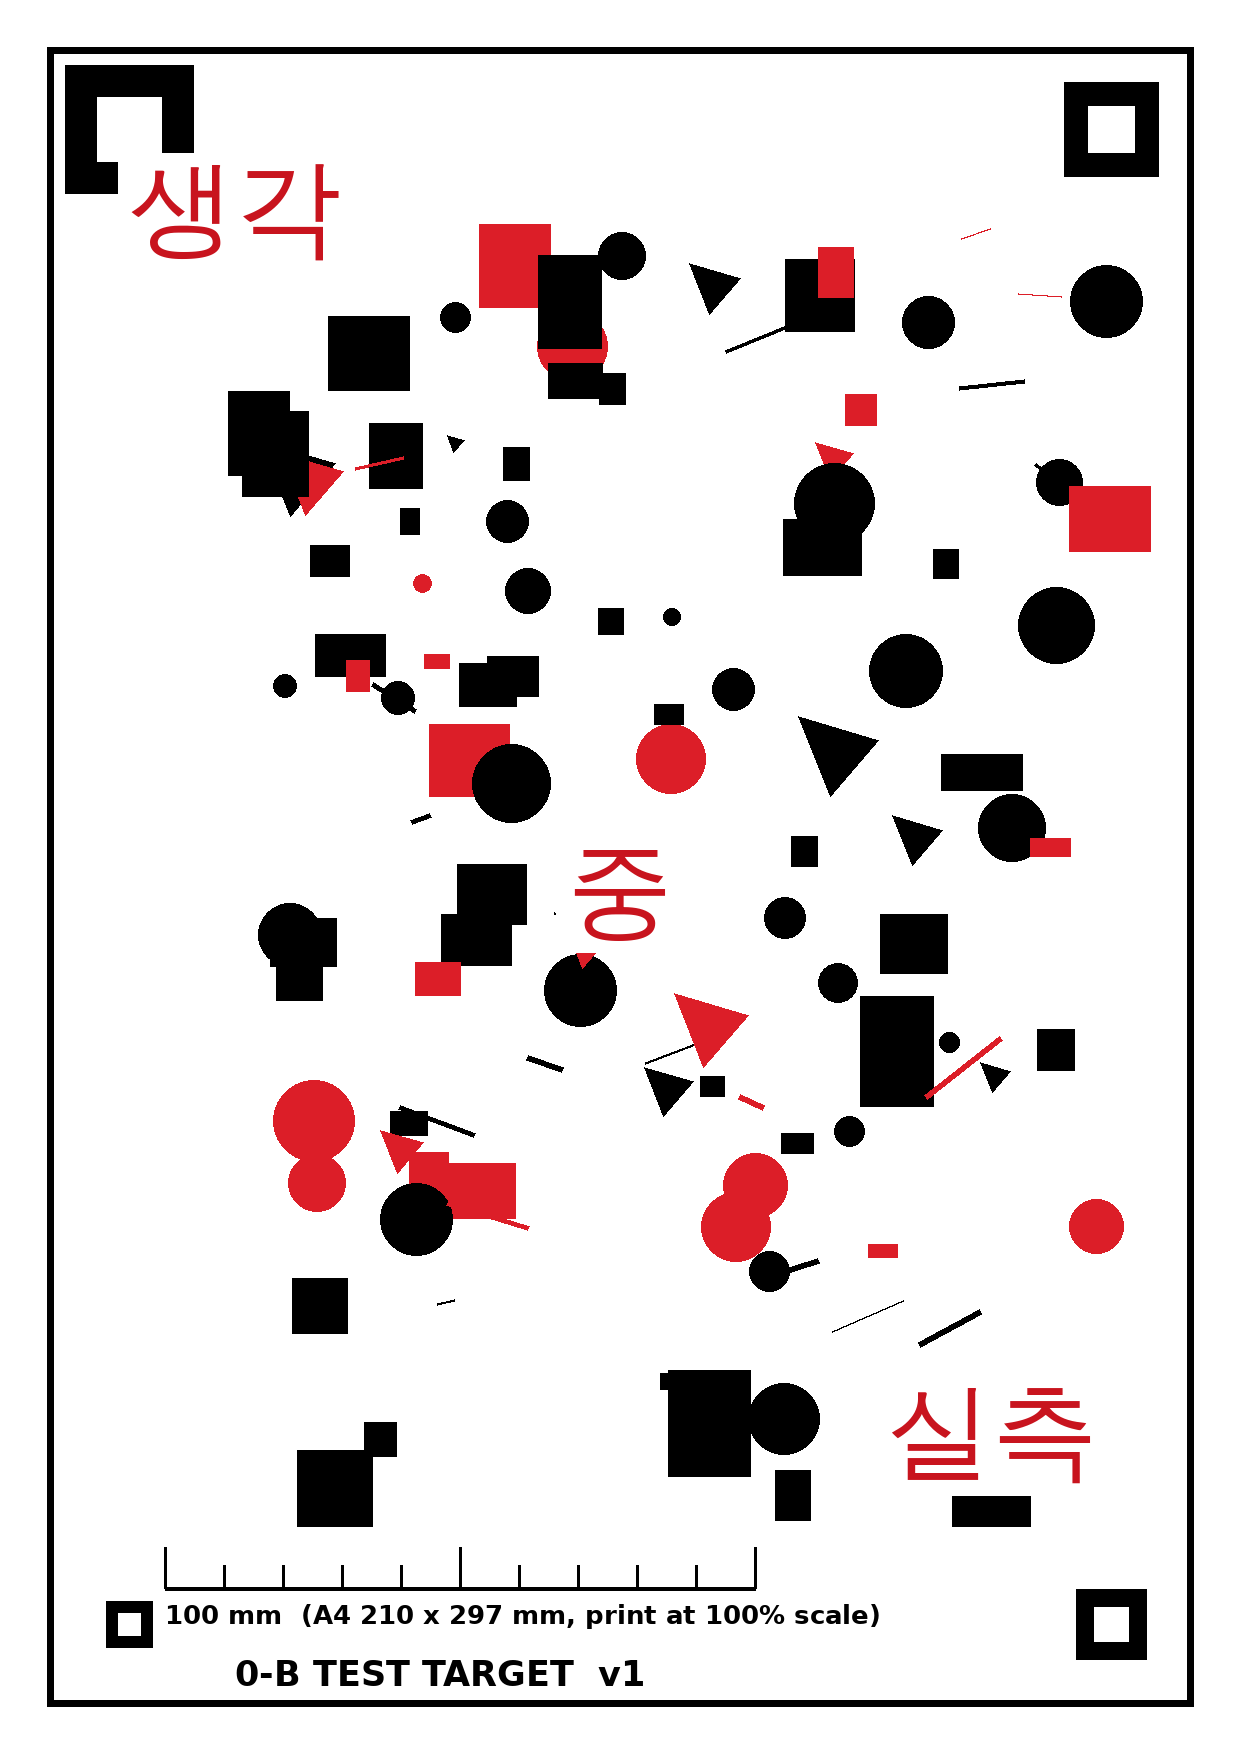
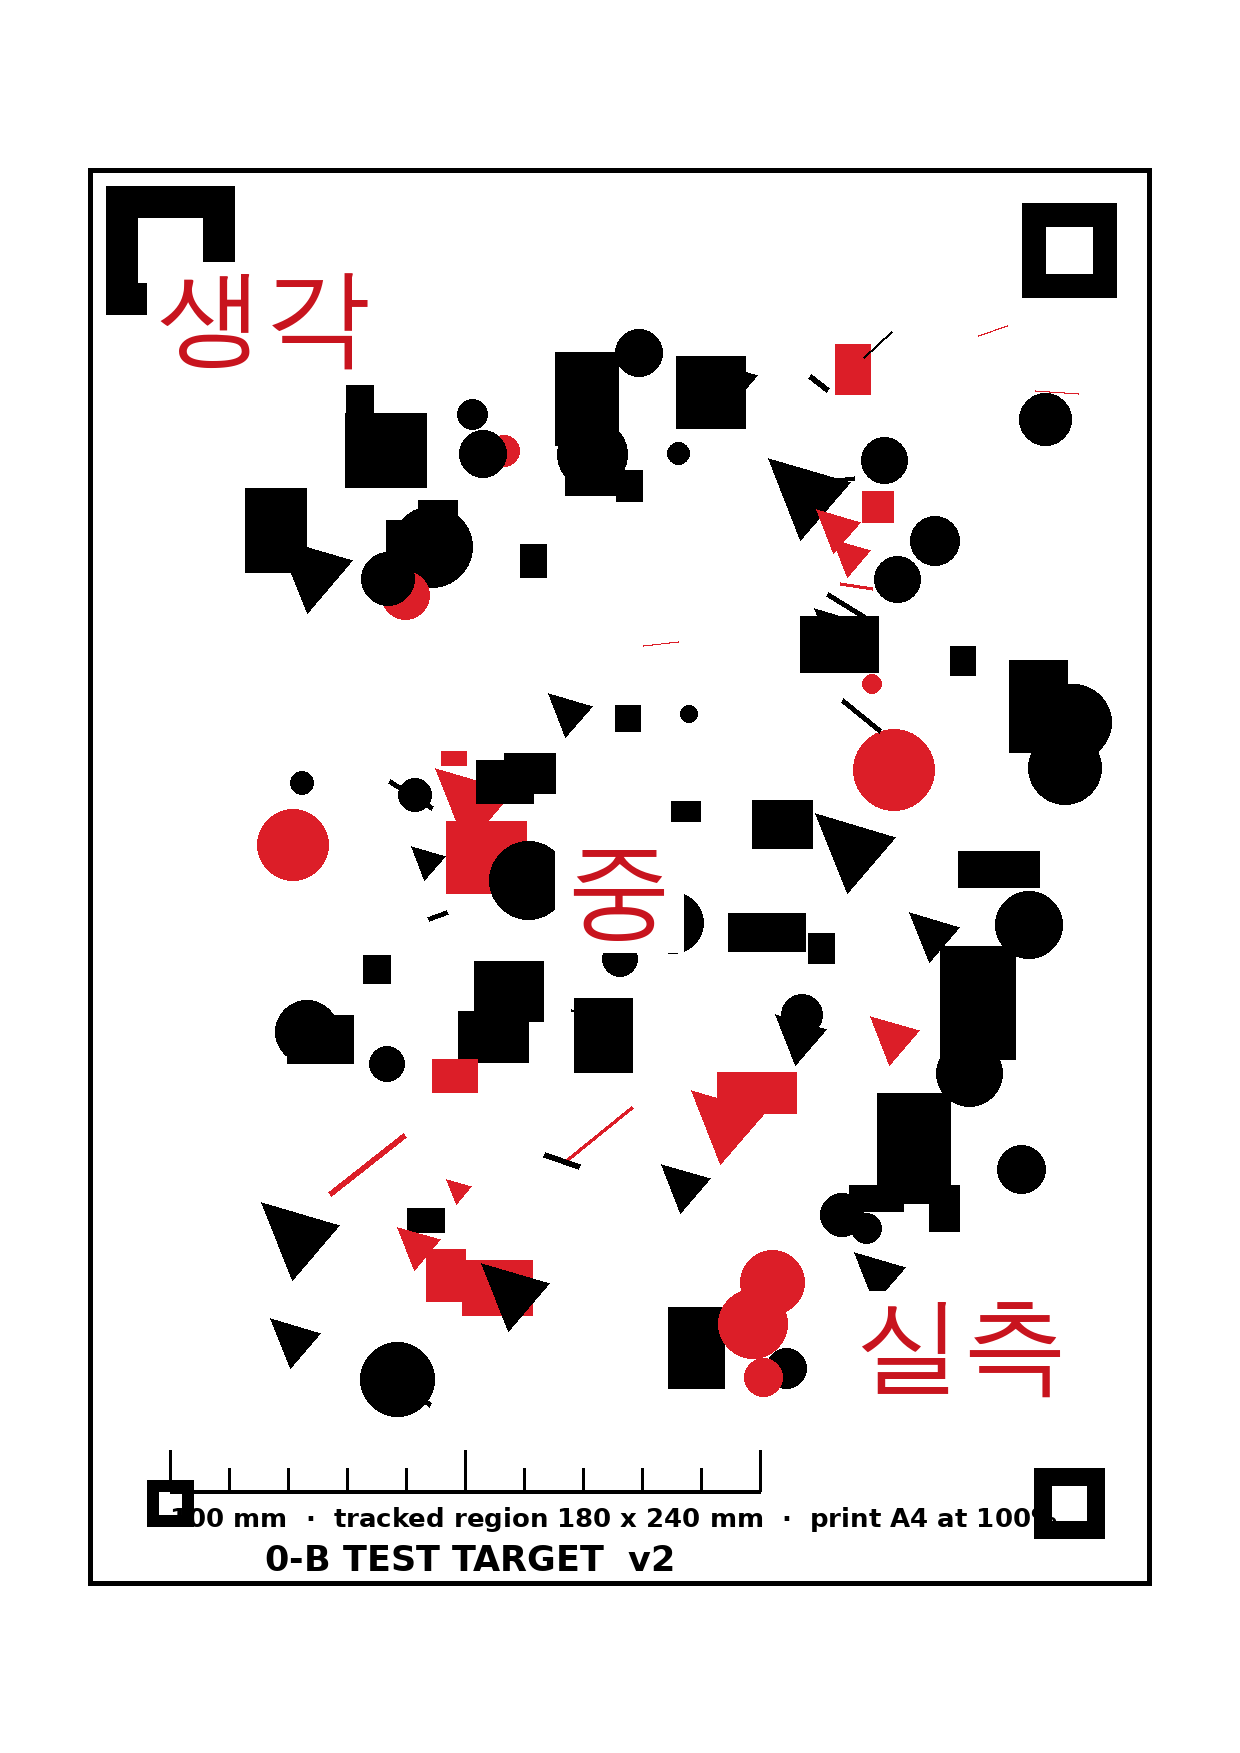
0-B: 타겟 v2 — 인쇄 테두리 = 추적 영역 (비율 불일치 해결)
사용자 관측 "비율이 안 맞는다"의 원인 규명:
엔진 trackable region은 3:4/4:3 고정(luminance 480x640)이라 A4 전체(1.414)는
타겟이 될 수 없고, CLI 기본 크롭이 위아래를 잘라낸다(1240x1653=1.333).
즉 배율(k)이 아니라 비율 문제이므로 k 튜닝으로는 해결 불가.

수정: 타겟 디자인을 바꿔 3:4 영역(180x240mm)을 명시적으로 그리고,
컴파일 시 그 영역을 크롭으로 지정(top=168 left=88 width=1063)해
인쇄 테두리 = 추적 영역 = 정합 박스가 일치하도록 했다.
manifest widthMm도 추적 영역 기준 180mm으로 정정.

Claude-Session: https://claude.ai/code/session_016pWzTZ4GiekuZ5Tx7X6N5W

Changed region(s): [[0.0306, 0.0, 0.9806, 0.9857], [0.7968, 0.6469, 0.8581, 0.6777], [0.7355, 0.154, 0.7661, 0.2156]]

diff --git a/public/targets/README.md b/public/targets/README.md
@@ -15,23 +15,33 @@ manifest.json          { "targets": ["target0b"] }
 
 ## 현재 타겟
 
-### `target0b` — 0-B 테스트 타겟 (자체 생성)
+### `target0b` — 0-B 테스트 타겟 (자체 생성, v2)
 
-`target0b.png`가 원본이다. **A4(210×297mm) 규격**으로 만들었다.
+`target0b.png`가 원본이다. A4(210×297mm) 용지에 인쇄하되, **추적 영역은
+인쇄된 검은 테두리와 정확히 일치하는 180×240mm(3:4)** 다.
+
+> **왜 3:4인가**: 엔진의 trackable region은 3:4(portrait) 또는 4:3(landscape)
+> 고정이다(luminance가 항상 480×640). 따라서 A4 전체(1.414)는 타겟이 될 수 없고,
+> CLI 기본 크롭은 위아래를 잘라낸다. v1은 이 때문에 정합박스와 종이 비율이
+> 어긋나 보였다. v2는 3:4 영역을 명시적으로 그리고 컴파일 시 그 영역을 크롭으로
+> 지정해 **인쇄 테두리 = 추적 영역 = 정합 박스**가 되도록 했다.
+>
+> 컴파일 값: `top=168 left=88 width=1063` (높이는 3:4로 자동=1417) → 180×240mm
 
 포함 요소와 의도:
 
 | 요소 | 목적 |
 |---|---|
-| 바깥 테두리 | 우리 와이어프레임 정합박스와 육안 비교 → **정합 오차 측정 기준** |
+| 인쇄 테두리 | **추적 영역과 동일**. 정합박스가 이 선에 겹쳐야 정상 → **정합 오차 측정 기준** |
 | 비대칭 코너 마커(22/16/12/8mm) | 회전 모호성 제거 |
 | 비반복 고대비 도형 다수 | 추적 특징점 공급 |
 | 제목급 큰 글자 3개(생각/중/실측) | 0-D 단어 정합 probe 예행 대상 |
 | 100mm 눈금자 | **world scale calibration**(스펙 §6.2) 교차검증 |
 
-**사용법**: `<사이트>/targets/target0b.png`를 열어 **A4에 100% 배율로 인쇄**하거나
-모니터에 띄운 뒤, 앱으로 비춘다. 인쇄하면 실제 폭이 210mm로 확정되어 거리·스케일
-검증이 가능하다(모니터 표시는 파이프라인 검증용으로는 충분하나 반사·모아레 주의).
+**사용법**: `<사이트>/targets/target0b.png`를 열어 **A4에 100% 배율로 인쇄**한다.
+인쇄하면 추적 영역 폭이 180mm로 확정되어 거리·스케일 검증이 가능하다.
+(모니터 표시는 반사·모아레·백라이트 때문에 인식 거리가 실제보다 짧게 나온다 —
+0-B 실측에서 모니터 대비 인쇄물의 인식 거리가 뚜렷이 길었다.)
 
 ## 새 타겟 추가
 
